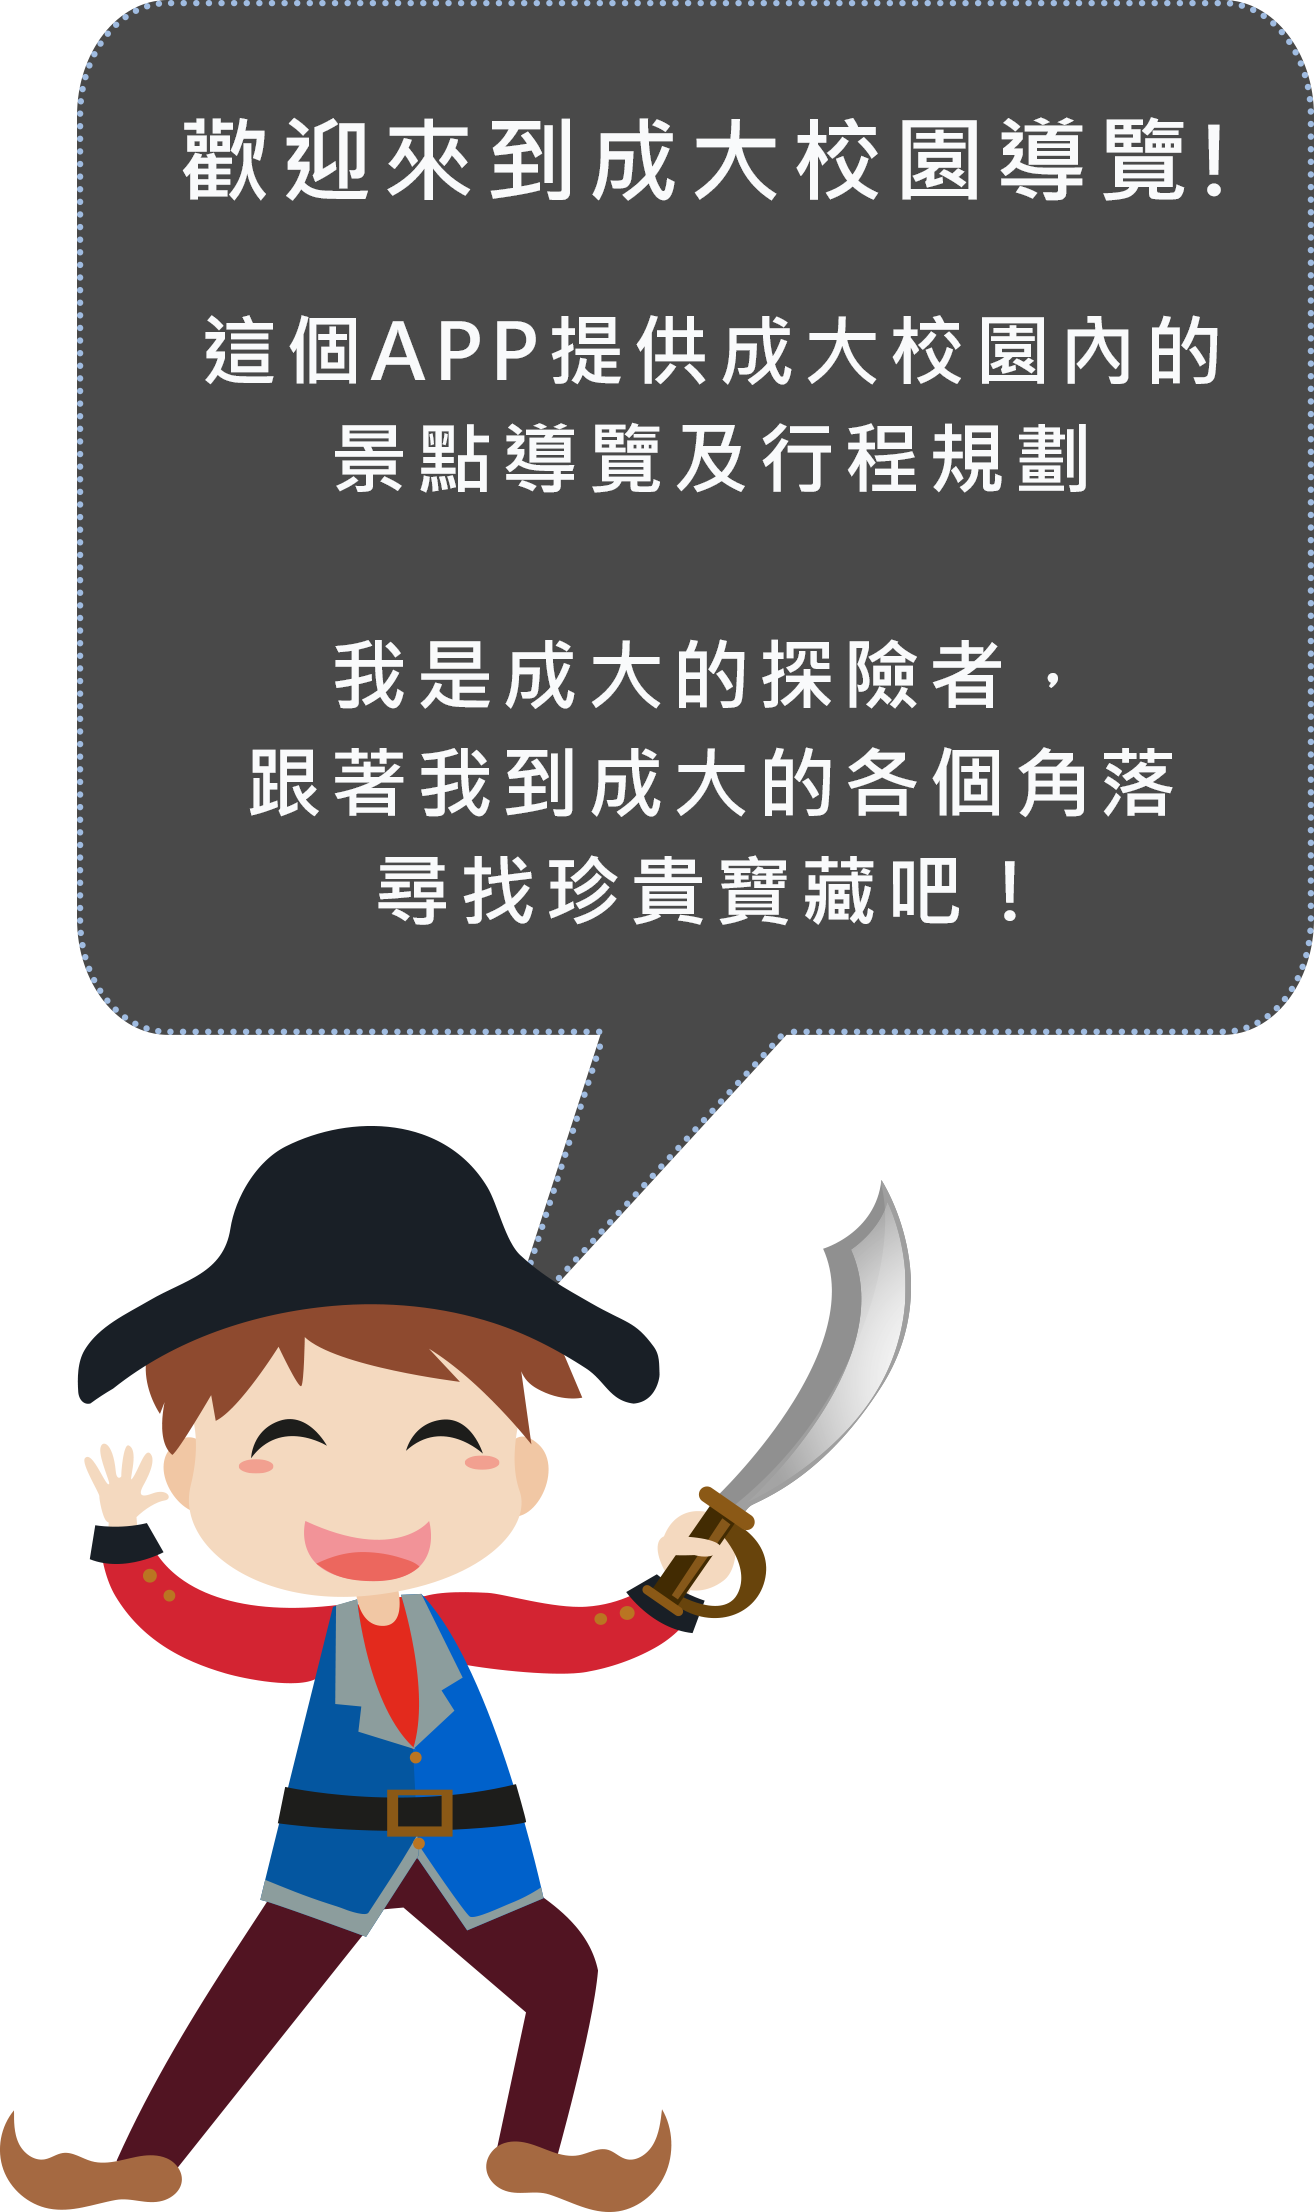
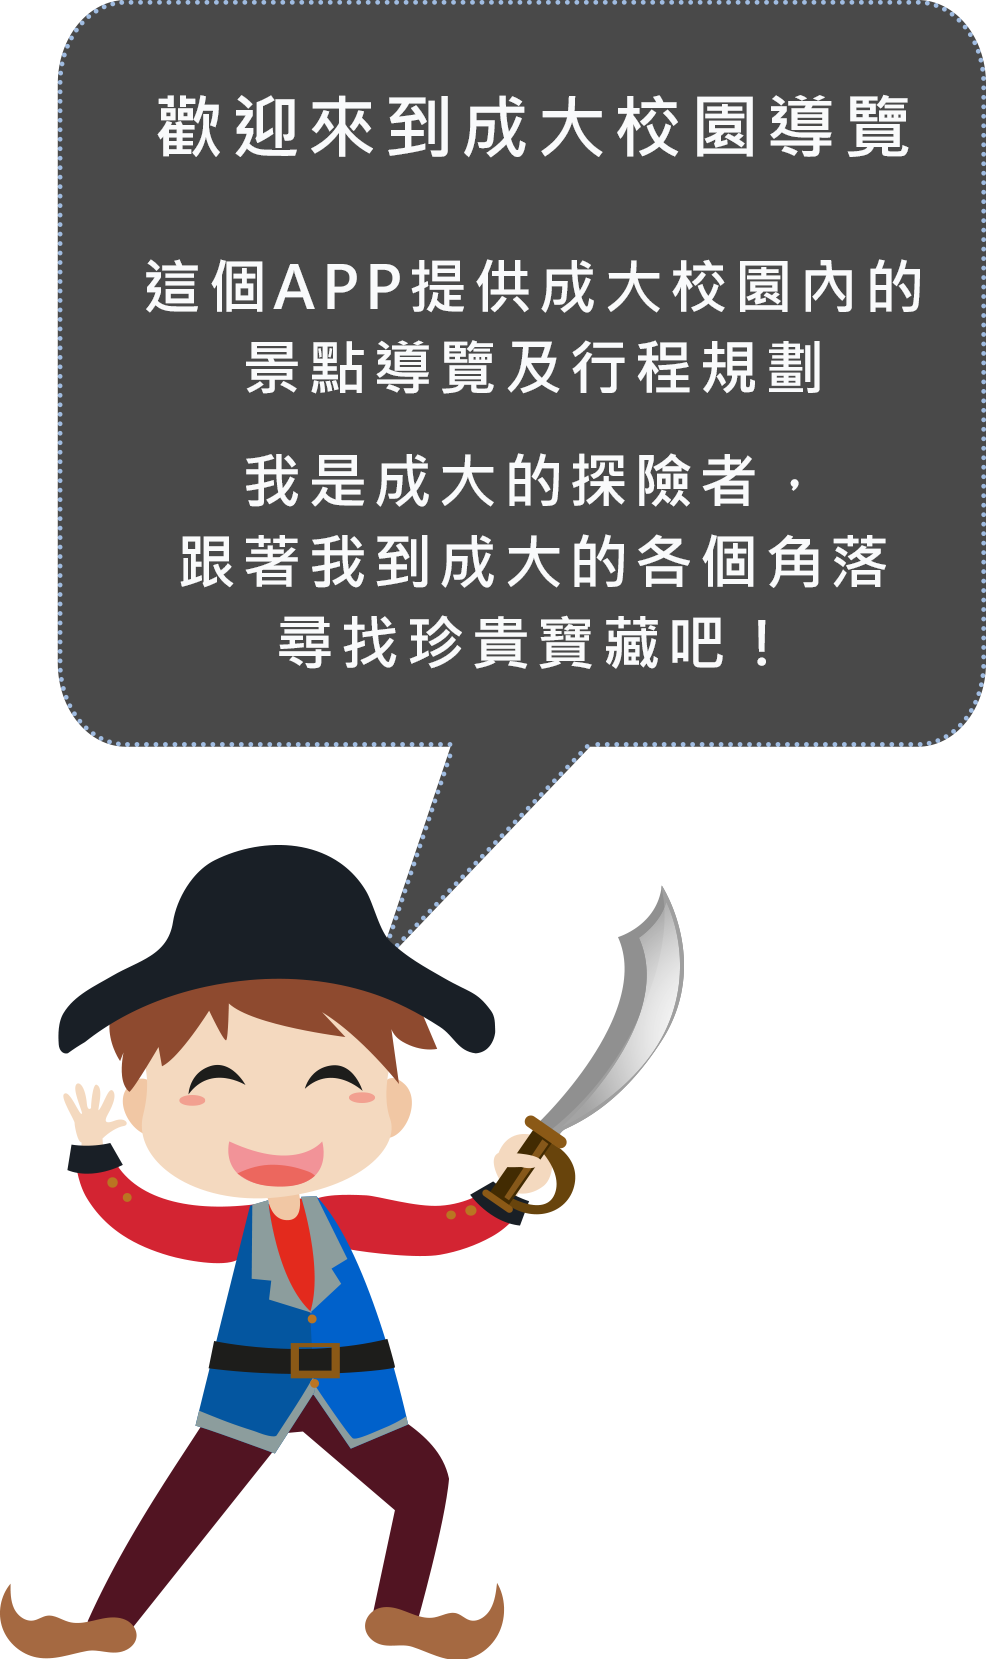
Fix intro page

diff --git a/www/css/welcomescreen.css b/www/css/welcomescreen.css
@@ -1,7 +1,3 @@
-#slide2 .welcomescreen-picture {
-  margin-top: 10vh;
-}
-
 #welcome-close-btn img {
   width: 40vw;
 }
